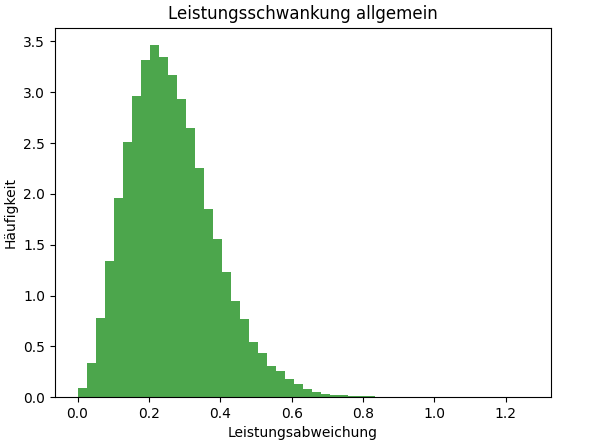
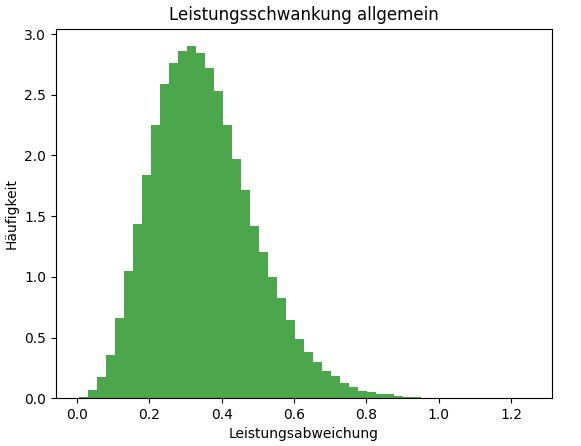
Update Repository.

Changed region(s): [[0.0, 0.0, 0.9604, 0.9977]]

diff --git a/Multiagent_Coalition/Agents/WindTurbineAgent.py b/Multiagent_Coalition/Agents/WindTurbineAgent.py
@@ -1,4 +1,5 @@
 import asyncio
+import numpy as np
 from mango import Agent
 from mango.messages.message import Performatives
 from mango.util.scheduling import InstantScheduledProcessTask
@@ -11,25 +12,27 @@ class WindTurbineAgent(Agent):
 
     _container = 0
     _container_address = []
-    _location_coordinate = [0, 0]
-    _expected_power_generation = 0
-    _current_coalition_value = 0
-    _current_coalition_agents = []
+    location_coordinate = [0, 0]
+    expected_power_generation = 0
+    _current_coalition_value = 0    # the current coalition value ready to 
+    _current_coalition_agents = []  # current agents in coalition with this agent
     _neighbor_agents = []           # classes of all neighboring agents
     _available_agents = {}          # agent id and their availability
     _depleted_request_pool = False
     _is_done = False
     request_count = 0
-    DISTANCE_WEIGHT = 0.7
-    POWER_WEIGHT = 0.3
-    RATED_CAPACITY = 2500
+    POWER_AMPLITUDE = 0.2
+    POWER_FUNCTION_HEIGHT = 0.5
+    POWER_FUNCTION_MU = 0.3
+    POWER_FUNCTION_SIGMA = 0.1
 
-    def __init__(self, container, address, coordinate, power):
+    def __init__(self, container, address, coordinate, power, starting_coalition_value):
         super().__init__(container)
         self._container = container
         self._container_address = address
-        self._location_coordinate = coordinate
-        self._expected_power_generation = power
+        self.location_coordinate = coordinate
+        self.expected_power_generation = power
+        self._current_coalition_value = starting_coalition_value
         self._current_coalition_agents.append(self.aid)
         print(f"My id is {self.aid}.")
 
@@ -45,20 +48,33 @@ class WindTurbineAgent(Agent):
         # If any agent is available a message is sent to it
         if available_agents:
             request_receiver = random.choice(available_agents)
-            print(f"{self.aid} started sending a message.")
-            message_content = RequestMessage(self.aid, self._location_coordinate, self._expected_power_generation)
-            await self.send_message(message_content, self._container_address, request_receiver)
-            await asyncio.sleep(10)
+            print(f"{self.aid} started sending a message to {request_receiver} at {self._container_address}.")
+            message_content = RequestMessage(self.aid, self.location_coordinate, self.expected_power_generation)
+
+            acl_meta = {"sender_addr": self._context.addr, "sender_id": self.aid,
+                        "performative": Performatives.inform}
+            self.schedule_instant_task(
+                self._context.send_acl_message(
+                    content=message_content,
+                    receiver_addr=self._container_address,
+                    receiver_id=request_receiver,
+                    acl_metadata=acl_meta,
+                )
+
+            )
+            # await self.send_message(message_content, self._container_address, request_receiver)
+
         else:
             self._depleted_request_pool = True
         return
 
-
     async def handle_message(self, content, meta):
         """
-        When a message is received it gets handled here. It can be a
+        When a message is received it gets handled here. The content can be of the following types:
+        RequestMessage, AdmissionMessage, RefusalMessage
         """
-        print(f"{self.aid} has received a message.")
+
+        print(f"{self.aid} has received a message from {meta}.")
         if isinstance(content, RequestMessage):
             if not self._available_agents.get(content.agent_id):
                 message_content = RefusalMessage(content.agent_id, self._current_coalition_agents)
@@ -102,7 +118,6 @@ class WindTurbineAgent(Agent):
                             print(f"{self.aid} is done searching.")
             return
 
-
         else:
             print(f"{self.aid}: The message with the content {content} has a wrong type.")
         return
@@ -110,16 +125,23 @@ class WindTurbineAgent(Agent):
     def calculate_coalition_value(self, foreign_coordinate, foreign_power):
 
         coalition_agent_distances = []
+        neighborhood_agent_power_outputs = 0
 
-        for i in self._current_coalition_agents:
+        for i, agent in enumerate(self._current_coalition_agents):
             coalition_agent_distances.append(self._current_coalition_agents[i].location_coordinate)
+            neighborhood_agent_power_outputs = neighborhood_agent_power_outputs + agent.expected_power_generation
         coalition_agent_distances.append(foreign_coordinate)
 
         distance_value = self.euclidean_coalition_distance(coalition_agent_distances)
 
-        power_value = foreign_power / self.RATED_CAPACITY
+        power_value = self.calculate_power_value(neighborhood_agent_power_outputs / len(neighborhood_agent_power_outputs))
 
-        return distance_value * self.DISTANCE_WEIGHT + power_value * self.POWER_WEIGHT
+        return distance_value * power_value
+
+    def calculate_power_value(self, power_output):
+        return (1 / (self.POWER_FUNCTION_SIGMA * np.sqrt(2 * np.pi))
+                * np.exp(-0.5 * ((power_output - self.POWER_FUNCTION_MU) / self.POWER_FUNCTION_SIGMA) ** 2))\
+                * self.POWER_AMPLITUDE + self.POWER_FUNCTION_HEIGHT
 
     def euclidean_coalition_distance(self, coalition_coordinates):
         sum_distances = 0

diff --git a/Multiagent_Coalition/Agents/Datacollector.py b/Multiagent_Coalition/Agents/Datacollector.py
@@ -24,26 +24,26 @@ class Datacollector:
             self.min_size_cluster = 2
             self.max_size_cluster = 5
             self.min_distance_turbines = 0.2
-            self.min_distance_clusters = 2
+            self.starting_coalition_value = 2
 
         else:
-            while self.x_range <= 0:
+            while self.x_range < 1:
                 try:
                     self.x_range = float(input(f"Length of x in the coordinate system in km: "))
                 except:
-                    print(f"You need to enter a number greater than 0.")
+                    print(f"You need to enter a number greater than 1.")
 
-            while self.y_range <= 0:
+            while self.y_range < 1:
                 try:
                     self.y_range = float(input(f"Length of y in the coordinate system in km: "))
                 except:
-                    print(f"You need to enter a number greater than 0.")
+                    print(f"You need to enter a number greater than 1.")
 
             while self.number_wind_turbines < 2:
                 try:
                     self.number_wind_turbines = int(input(f"Amount of wind turbines: "))
                     if self.number_wind_turbines < 2:
-                        print(f"Amount of wind turbines must be more than 1: ")
+                        self.number_wind_turbines = int(input(f"Amount of wind turbines must be more than 1: "))
                 except:
                     print(f"You need to enter a number greater than 0.")
 
@@ -61,7 +61,7 @@ class Datacollector:
                 except:
                     print(f"You need to enter a number greater than 0.")
 
-            while self.min_size_cluster <= 0:
+            while self.min_size_cluster <= 0 and self.min_size_cluster * self.number_clusters > self.number_wind_turbines:
                 try:
                     self.min_size_cluster = int(input(f"Minimal size of clusters: "))
                     if self.min_size_cluster <= 0:
@@ -69,11 +69,11 @@ class Datacollector:
                 except:
                     print(f"You need to enter a number greater than 0.")
 
-            while self.max_size_cluster <= 0 or self.max_size_cluster < int(self.number_wind_turbines / self.number_clusters) + 1:
+            while self.max_size_cluster <= 0 or self.max_size_cluster < math.ceil(self.number_wind_turbines / self.number_clusters):
                 try:
                     self.max_size_cluster = int(input(f"Maximal size of clusters: "))
                     if self.max_size_cluster < int(math.ceil(self.number_wind_turbines / self.number_clusters)):
-                        self.max_size_cluster = int(input(f"The cluster size must be greater than {int(self.number_wind_turbines / self.number_clusters)}: "))
+                        self.max_size_cluster = int(input(f"The cluster size must be greater than {math.ceil(self.number_wind_turbines / self.number_clusters)}: "))
                 except:
                     print(f"You need to enter a number greater than 0.")
 
@@ -86,6 +86,12 @@ class Datacollector:
             while self.min_distance_clusters <= 0:
                 try:
                     self.min_distance_clusters = float(input(f"Minimal distance of clusters: "))
+                except:
+                    print(f"You need to enter a number greater than 0.")
+
+            while self.starting_coalition_value <= 0:
+                try:
+                    self.starting_coalition_value = float(input(f"The Koalition value the agents should start with: "))
                 except:
                     print(f"You need to enter a number greater than 0.")
 

diff --git a/Multiagent_Coalition/Agents/MultiAgentSystem.py b/Multiagent_Coalition/Agents/MultiAgentSystem.py
@@ -12,12 +12,12 @@ class MultiAgentSystem:
     REQUEST_COUNT = 5
     CONTAINER_ADDRESS = ("localhost", 5555)
 
-    """
-    To create the agents which control the wind turbines the coordinates of the wind turbines and their generated
-    power is needed. First a container gets created and then all agents. All agents also get the information of their
-    neighbors.
-    """
-    async def create_container_with_agents(self, coordinates, power_generation):
+
+    async def create_container_with_agents(self, coordinates, power_generation, starting_coalition_value):
+        """
+        To create the agents which control the wind turbine. The coordinates and their generated power is needed. First
+        a container gets created and then all agents. All agents also get the information of their neighbors.
+        """
 
         clock = AsyncioClock()
         self._container = await create_container(addr=self.CONTAINER_ADDRESS, clock=clock)
@@ -25,13 +25,12 @@ class MultiAgentSystem:
             self.agents.append(WindTurbineAgent(self._container,
                                                 self.CONTAINER_ADDRESS,
                                                 i,
-                                                power_generation.get(i)
+                                                power_generation.get(i),
+                                                starting_coalition_value
                                                 ))
 
         for i, agent in enumerate(self.agents):
             agent.set_available_agents(self.agents)
-
-        await asyncio.sleep(1)
 
         if input(f"Do you want to start the simulation with this dataset? (y/n): ") == 'y':
             await self.start_simulation()
@@ -44,7 +43,7 @@ class MultiAgentSystem:
         random.shuffle(shuffled_agents)
         for i, agent in enumerate(shuffled_agents):
             await agent.initiate_requests(self.REQUEST_COUNT, i)
-        await asyncio.sleep(1)
+        await asyncio.sleep(30)
         return
 
     async def plot_coalitions(self):

diff --git a/Multiagent_Coalition/Agents/CoordinateSystem.py b/Multiagent_Coalition/Agents/CoordinateSystem.py
@@ -9,6 +9,8 @@ class CoordinateSystem:
     coordinates = []
     power_means_clusters = {}             # Saves generated power means for clusters in kW/h
     power_generation_wind_turbines = {}   # Saves the generated power values for each coordinate in kW/h
+    power_average = 750
+    RATED_CAPACITY = 3000
 
     def generate_clusters(self,
                           x_range,
@@ -31,7 +33,7 @@ class CoordinateSystem:
             new_cluster_coordinate = (x, y)
             if all(self.euclidean_distance(new_cluster_coordinate, existing_coord) >= (medium_cluster_radius*2) for existing_coord in cluster_centers):
                 cluster_centers.append(new_cluster_coordinate)
-                self.power_means_clusters.update({new_cluster_coordinate: float((random.gauss(0.5, 0.12) ** 2) * 2500)})
+                self.power_means_clusters.update({new_cluster_coordinate: float((random.gauss(0.5, 0.12) ** 2) * self.RATED_CAPACITY)})
 
         # Counts the number of coordinates for each cluster
         clusters = {}
@@ -52,6 +54,8 @@ class CoordinateSystem:
                 self.power_generation_wind_turbines.update({new_coord: self.calculate_power_value(cluster_center)})
                 clusters[cluster_center] = clusters[cluster_center]+1
 
+
+
         print(clusters)
         return
 
@@ -64,7 +68,7 @@ class CoordinateSystem:
     def calculate_power_value(self, cluster):
         power_value = self.power_means_clusters.get(cluster) * random.gauss(1, 0.1)
         # If the turbine generates more than 2500 it's turned off because of too much wind force
-        if power_value < 0 or power_value > 2500:
+        if power_value < 0 or power_value > self.RATED_CAPACITY:
             power_value = 0
         return power_value
 

diff --git a/Multiagent_Coalition/Agents/Main.py b/Multiagent_Coalition/Agents/Main.py
@@ -24,5 +24,8 @@ if __name__ == "__main__":
 
     if input(f"Do you want to create the multi agent system? (y/n): ") == "y":
         agent_system = MultiAgentSystem()
-        asyncio.run(agent_system.create_container_with_agents(coordinate_system.coordinates, coordinate_system.power_generation_wind_turbines))
+        asyncio.run(agent_system.create_container_with_agents(coordinate_system.coordinates,
+                                                              coordinate_system.power_generation_wind_turbines,
+                                                              datacollector.starting_coalition_value
+                                                              ))
         # ToDo: Start simulation

diff --git a/Multiagent_Coalition/Agents/Examples/GroupCoordinate.py b/Multiagent_Coalition/Agents/Examples/GroupCoordinate.py
@@ -6,8 +6,9 @@ def divide_into_groups(coordinates, group_size):
     return groups
 
 # Beispielaufruf
-coordinates = [(1, 1), (1, 2), (2, 1), (7, 8), (9, 13), (11, 12), (13, 14), (15, 12), (17, 18), (19, 20)]
-group_size = 3
+coordinates = [(1, 1), (15, 2), (2, 11), (17, 8), (9, 13), (11, 5), (13, 14), (15, 12), (17, 18), (19, 20), (3, 6), (5, 2)]
+random.shuffle(coordinates)
+group_size = 5
 
 groups = divide_into_groups(coordinates, group_size)
 
@@ -22,5 +23,5 @@ for i, group in enumerate(groups):
 
 plt.xlabel('X-Koordinate')
 plt.ylabel('Y-Koordinate')
-plt.title('Punkte und Verbindungen in unterschiedlichen Farben')
+plt.title('Beispiel einer Koalitionensstruktur')
 plt.show()

diff --git a/Multiagent_Coalition/Agents/Examples/Gauss_Function.py b/Multiagent_Coalition/Agents/Examples/Gauss_Function.py
@@ -1,0 +1,26 @@
+import numpy as np
+from numpy import log
+import matplotlib.pyplot as plt
+
+def gaussian(x, mu, sigma):
+    return (1 / (sigma * np.sqrt(2 * np.pi)) * np.exp(-0.5 * ((x - mu) / sigma) ** 2)) * 0.2 + 0.5
+
+def linear(x):
+    return np.ln(x)
+
+mu = 0.3
+sigma = 0.1
+
+x = np.linspace(0, 1, 1000)
+# y = gaussian(x, mu, sigma)
+y = linear(x)
+
+plt.xlim(0, 1)
+plt.ylim(0, y)
+
+plt.plot(x, y)
+plt.xlabel('Erbrachter Leistung in % zum Nennwert')
+plt.ylabel('Gewichtung des Leistungsprofils')
+plt.title('Gaussische Verteilung der Leistungsprofile')
+plt.grid(True)
+plt.show()

diff --git a/Multiagent_Coalition/Agents/Examples/Gauss.py b/Multiagent_Coalition/Agents/Examples/Gauss.py
@@ -1,13 +1,14 @@
 import random
 import matplotlib.pyplot as plt
 
+
 def generate_gaussian_numbers(mean, std_dev, num_numbers):
     numbers = [random.gauss(mean, std_dev)**2 for _ in range(num_numbers)]
     return numbers
 
 
 # Beispielaufruf
-mean = 0.5       # Passen Sie den gewuenschten Mittelwert an
+mean = 0.58       # Passen Sie den gewuenschten Mittelwert an
 std_dev = 0.12   # Passen Sie die gewuenschte Standardabweichung an
 num_numbers = 100000
 
